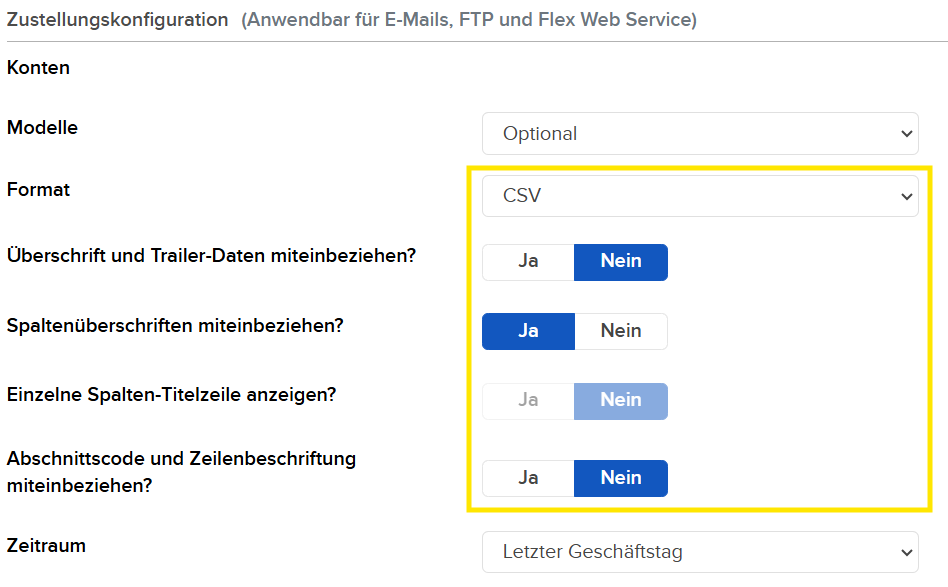
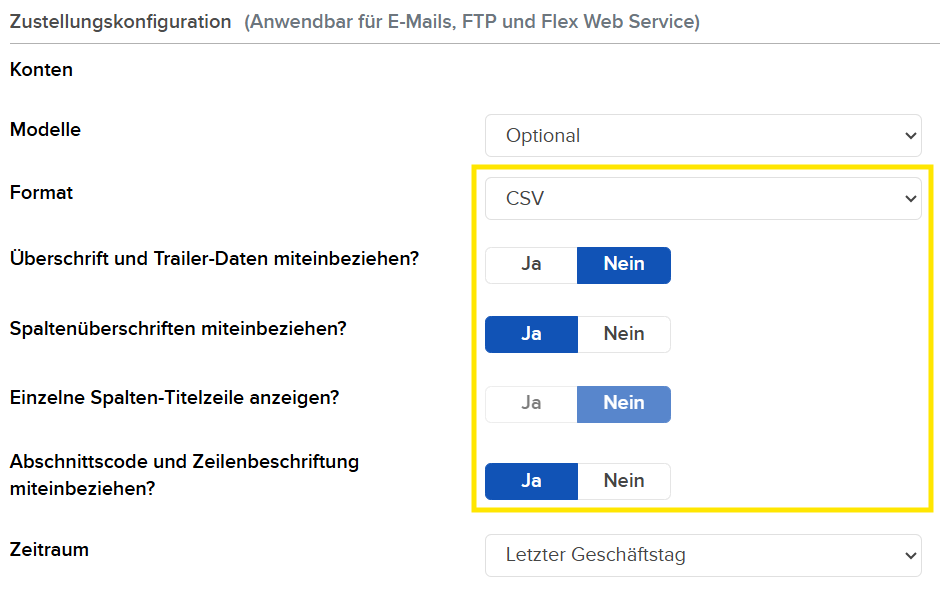
Update how-to of creating a flex query

diff --git a/src/page/start/create_statement.py b/src/page/start/create_statement.py
@@ -71,7 +71,7 @@ with intro.expander("Flex-Query erstellen"):
     st.image("resources/page/start/fq_create_08.png")
     st.write("""
         9. Nach Bestätigung durch Speichern scrollen Sie weiter herunter und stellen Sie in der Zustellkonfiguration 
-        das Format auf CSV um""")
+        das Format auf CSV um. Einbeziehung des Abschnittscodes und der Zeilenbeschriftung muss eingeschaltet werden""")
     st.image("resources/page/start/fq_create_09.png")
     st.write("""
         10. Abschließend ist die Allgemeine Konfiguration zu prüfen und ggf. zu korrigieren""")
